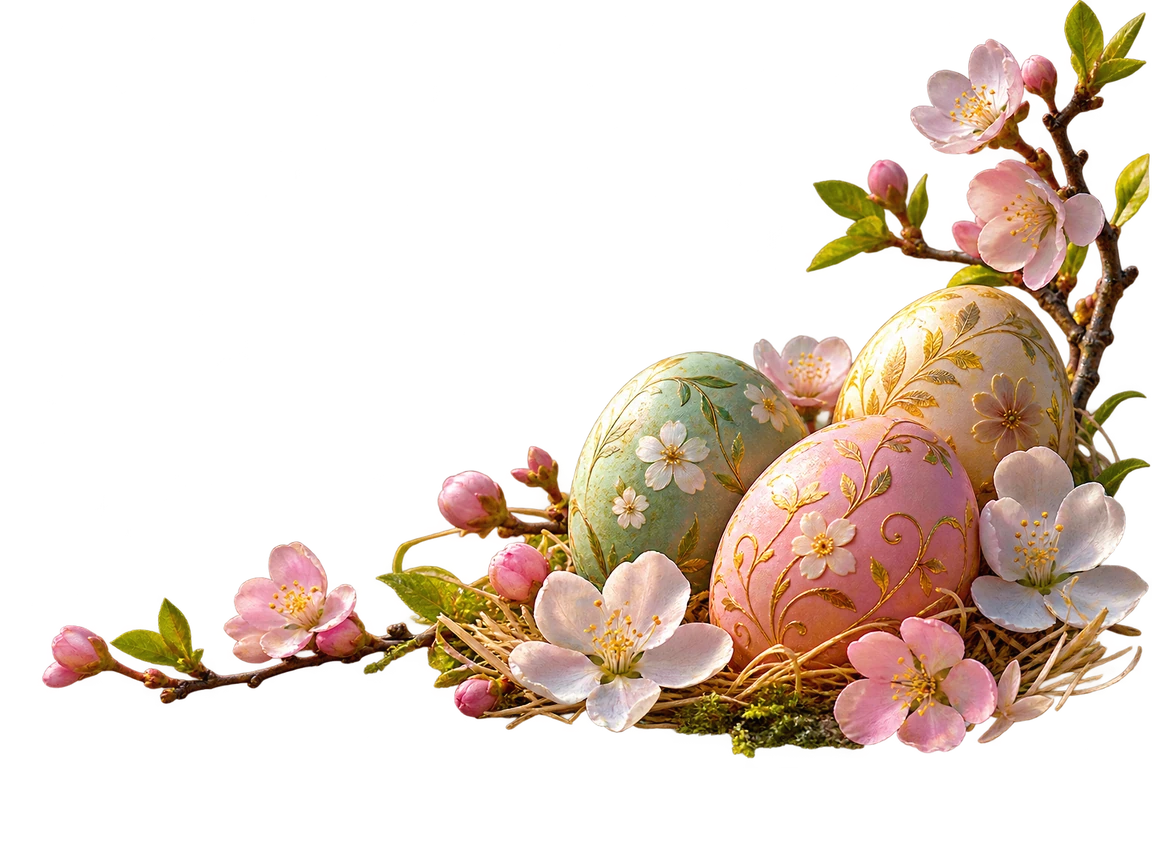
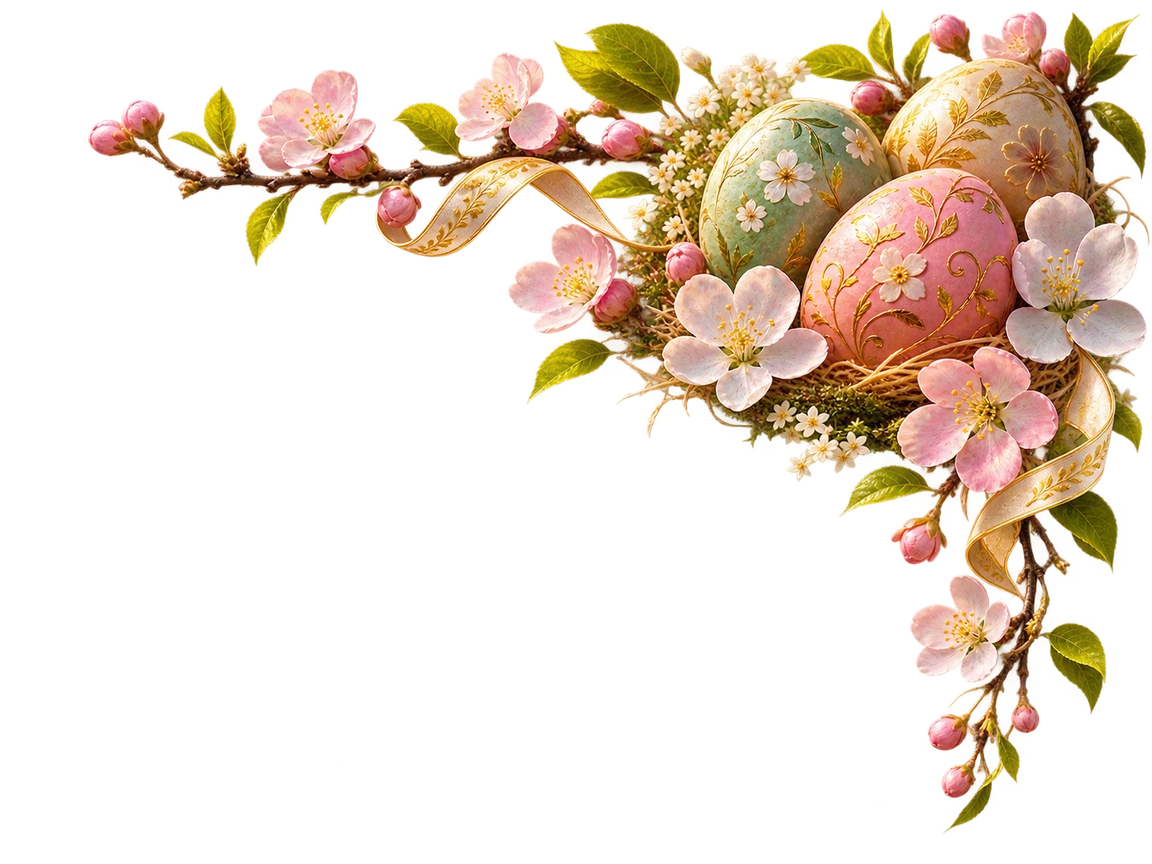
fix(#484): use approved top-right Easter detail corner

diff --git a/docs/_work/SEASONAL_CINEMATIC_ASSETS_484_2026-11-08.md b/docs/_work/SEASONAL_CINEMATIC_ASSETS_484_2026-11-08.md
@@ -17,7 +17,7 @@ Nine independent original wallpaper/corner pairs, 18 WebP files. All are locally
[8 lines of base64/hex data omitted]
@@ -35,3 +35,8 @@ Nine independent original wallpaper/corner pairs, 18 WebP files. All are locally
 ## Rollback
 
 Revert this PR or remove affected IDs from `CINEMATIC_MEDIA_READY`; the original SVG assets have not been deleted. Validate resulting manifest through the artwork audit before redeploy.
+
+
+### 2026-11-08 – Ostern-Eckmotiv korrigiert
+
+Das bisherige nach unten rechts ausgerichtete Ostermotiv wurde auf ausdrückliche visuelle Nutzerfreigabe durch eine **neu generierte, transparente obere rechte Ecke** ersetzt (Blüten, Ostereier, goldenes Band; nach links und unten auslaufend). Nur `easter-corner.webp` geändert; alle übrigen 17 WebP-Dateien bleiben bytegleich. Original: 1448×1086 RGBA PNG, Produktionsdatei: 1152×864 RGBA WebP. Für die Bildausrichtung ist auf Android/Fire TV weiterhin eine visuelle Abnahme nötig.
